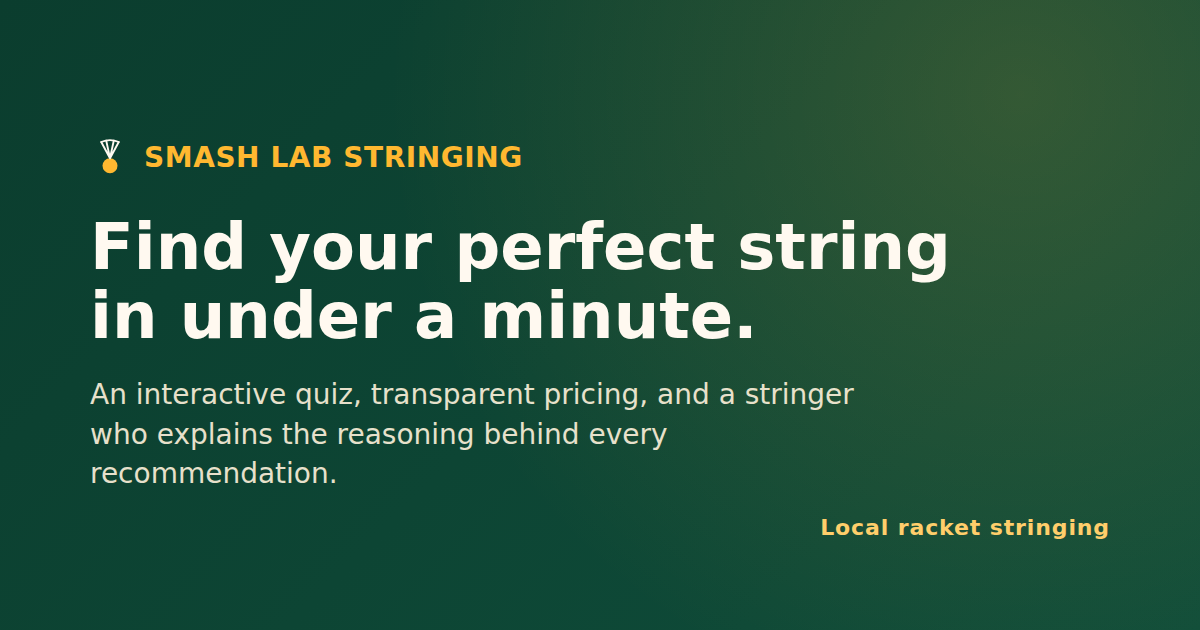
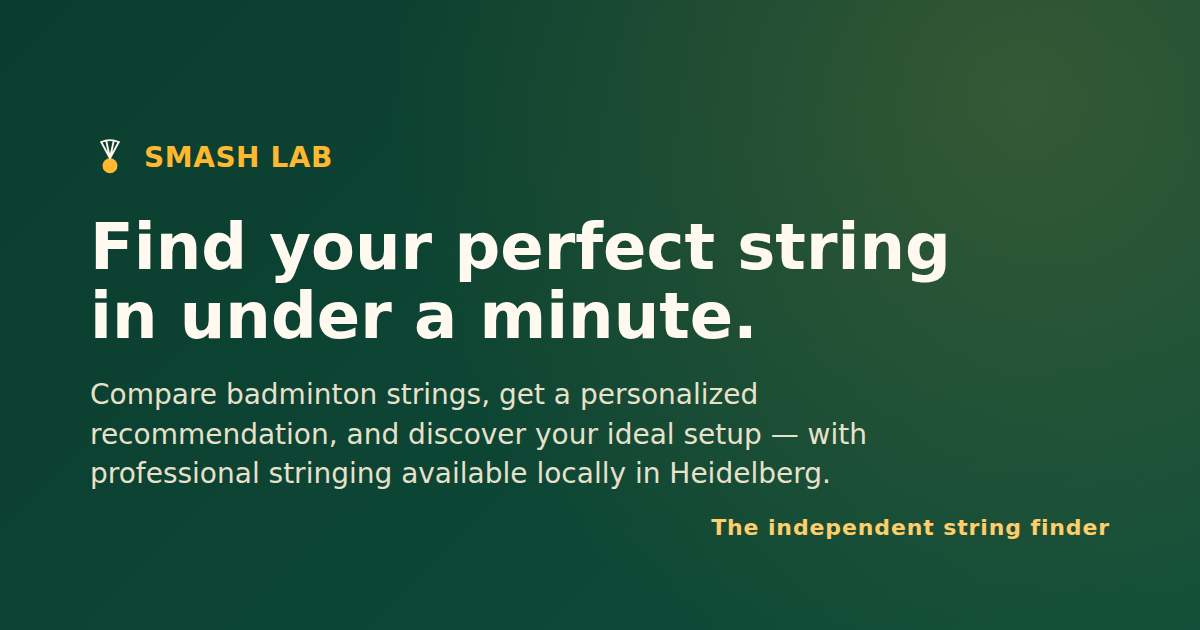
feat: reposition Smash Lab as an independent string finder
Shift homepage/SEO messaging from "local stringing service" to
"independent badminton string finder" per the platform's new direction —
stringing is now a secondary local service offered after a
recommendation, not the primary pitch. Updates Hero, HowItWorks, WhyUs,
site metadata/OG image, and per-page document titles (including the
plain #faq/#contact anchors, keyed off the raw hash). The recommendation
result's closing conversion section is reframed as "Ready to try this
setup?", and RestringAndCraft drops its "coming soon" photo placeholder
for a short, self-contained restring-frequency tip. Turnaround copy
updated to "24-48 hours".

Changed region(s): [[0.0617, 0.6032, 0.74, 0.7841], [0.5858, 0.8143, 0.925, 0.8746], [0.2775, 0.2111, 0.4317, 0.2714]]

diff --git a/index.html b/index.html
@@ -4,9 +4,10 @@
     <meta charset="UTF-8" />
     <link rel="icon" type="image/svg+xml" href="/favicon.svg" />
     <meta name="viewport" content="width=device-width, initial-scale=1.0" />
-    <meta name="description" content="Local badminton racket stringing service. Find your perfect string in under a minute with an interactive quiz, then browse the full string lineup with transparent pricing." />
+    <meta name="description" content="The independent badminton string finder. Compare strings, get a personalized recommendation, and find your ideal setup — with professional stringing available locally in Heidelberg." />
     <meta name="theme-color" content="#0b3d2e" />
-    <title>Smash Lab Stringing — Find Your Perfect String</title>
+    <link rel="apple-touch-icon" href="/favicon.svg" />
+    <title>Smash Lab — The Independent Badminton String Finder</title>
 
     <!--
       Content-Security-Policy — delivered via <meta> because GitHub Pages
@@ -61,7 +62,7 @@
     -->
     <meta
       http-equiv="Content-Security-Policy"
-      content="default-src 'self'; script-src 'self' 'sha256-4AVKGgu64xs9R5ibENixDABB7PLtxijHwG+/FQqmoDk='; style-src 'self' 'unsafe-inline'; img-src 'self' https:; font-src 'self'; connect-src 'self' https://*.supabase.co; object-src 'none'; base-uri 'self'; form-action 'self'; frame-src 'none'"
+      content="default-src 'self'; script-src 'self' 'sha256-PaeXnk29MDYLlPkDwOLXbMpM85TkaCvLqwVHqjuJPIY='; style-src 'self' 'unsafe-inline'; img-src 'self' https:; font-src 'self'; connect-src 'self' https://*.supabase.co; object-src 'none'; base-uri 'self'; form-action 'self'; frame-src 'none'"
     />
 
     <!--
@@ -78,27 +79,27 @@
     <link rel="canonical" href="https://thegrandnick.github.io/smash_lab/" />
 
     <meta property="og:type" content="website" />
-    <meta property="og:site_name" content="Smash Lab Stringing" />
-    <meta property="og:title" content="Smash Lab Stringing — Find Your Perfect String" />
-    <meta property="og:description" content="Local badminton racket stringing service. Find your perfect string in under a minute with an interactive quiz, then browse the full string lineup with transparent pricing." />
+    <meta property="og:site_name" content="Smash Lab" />
+    <meta property="og:title" content="Smash Lab — The Independent Badminton String Finder" />
+    <meta property="og:description" content="The independent badminton string finder. Compare strings, get a personalized recommendation, and find your ideal setup — with professional stringing available locally in Heidelberg." />
     <meta property="og:url" content="https://thegrandnick.github.io/smash_lab/" />
     <meta property="og:image" content="https://thegrandnick.github.io/smash_lab/og-image.png" />
     <meta property="og:image:width" content="1200" />
     <meta property="og:image:height" content="630" />
-    <meta property="og:image:alt" content="Smash Lab Stringing — find your perfect string in under a minute." />
+    <meta property="og:image:alt" content="Smash Lab — the independent badminton string finder." />
 
     <meta name="twitter:card" content="summary_large_image" />
-    <meta name="twitter:title" content="Smash Lab Stringing — Find Your Perfect String" />
-    <meta name="twitter:description" content="Local badminton racket stringing service. Find your perfect string in under a minute with an interactive quiz, then browse the full string lineup with transparent pricing." />
+    <meta name="twitter:title" content="Smash Lab — The Independent Badminton String Finder" />
+    <meta name="twitter:description" content="The independent badminton string finder. Compare strings, get a personalized recommendation, and find your ideal setup — with professional stringing available locally in Heidelberg." />
     <meta name="twitter:image" content="https://thegrandnick.github.io/smash_lab/og-image.png" />
 
     <script type="application/ld+json">
       {
         "@context": "https://schema.org",
         "@type": "WebSite",
-        "name": "Smash Lab Stringing",
+        "name": "Smash Lab",
         "url": "https://thegrandnick.github.io/smash_lab/",
-        "description": "Local badminton racket stringing service. Find your perfect string in under a minute with an interactive quiz, then browse the full string lineup with transparent pricing."
+        "description": "The independent badminton string finder. Compare strings, get a personalized recommendation, and find your ideal setup — with professional stringing available locally in Heidelberg."
       }
     </script>
     <!--

diff --git a/src/components/WhyUs.tsx b/src/components/WhyUs.tsx
@@ -1,12 +1,10 @@
 const POINTS = [
-  { emoji: '🏸', title: 'Badminton-focused', text: 'Restringing badminton rackets is my main focus, not a side category among many other sports.' },
-  { emoji: '⏳', title: '~2.5 years of experience', text: 'Hands-on stringing experience across a wide range of racket brands and models.' },
-  { emoji: '🧠', title: 'Personalized recommendations', text: 'String and tension suggestions come from a real scoring model based on how you actually play.' },
-  { emoji: '🔩', title: 'Grommet care included', text: 'I check grommets while restringing, and rotate or replace them where it helps protect your racket.' },
-  { emoji: '🎯', title: 'Careful, consistent process', text: 'Careful mounting and a consistent stringing pattern, restring after restring.' },
-  { emoji: '🧵', title: 'Wide string selection', text: 'A solid lineup of performance strings covering repulsion, control and durability.' },
-  { emoji: '📦', title: 'Can order other strings', text: "Don't see what you want in the lineup? I can usually order it in for you." },
-  { emoji: '🎒', title: 'Bring your own string', text: 'Prefer to supply your own string? Then you only pay the stringing fee.' },
+  { emoji: '🧠', title: 'Personalized, not generic', text: 'Recommendations come from a real scoring model based on how you actually play — not a one-size-fits-all bestseller list.' },
+  { emoji: '🏸', title: 'Independent & unbiased', text: 'No sponsorships or paid placements. Every match is based on fit, not on what pays best.' },
+  { emoji: '🧵', title: 'Full current lineup', text: 'Compare the whole lineup — repulsion, control, durability, feel — side by side, always up to date.' },
+  { emoji: '📦', title: "Can't find it?", text: "Don't see the string you want in the lineup? I can usually order it in for you." },
+  { emoji: '🎒', title: 'Bring your own string', text: 'Already have a string in mind? Bring it in and only pay the stringing fee.' },
+  { emoji: '🔧', title: 'Careful stringing, when you want it', text: 'Consistent mounting and pattern, with grommets checked along the way — built on ~2.5 years of hands-on experience.' },
 ]
 
 export default function WhyUs() {
@@ -14,10 +12,10 @@ export default function WhyUs() {
     <section id="why-us" className="py-20 px-4 sm:px-6 bg-court-900/5 dark:bg-white/5 scroll-mt-20">
       <div className="max-w-6xl mx-auto">
         <div className="text-center max-w-2xl mx-auto mb-12">
-          <p className="text-shuttle-600 font-semibold text-sm tracking-wide uppercase">Why choose this service</p>
-          <h2 className="font-display text-3xl sm:text-4xl font-bold mt-2 text-ink-900 dark:text-shuttle-50">Strung with care, matched with data</h2>
+          <p className="text-shuttle-600 font-semibold text-sm tracking-wide uppercase">Why Smash Lab</p>
+          <h2 className="font-display text-3xl sm:text-4xl font-bold mt-2 text-ink-900 dark:text-shuttle-50">Independent, and built on your answers</h2>
         </div>
-        <div className="grid sm:grid-cols-2 lg:grid-cols-4 gap-5">
+        <div className="grid grid-cols-1 sm:grid-cols-2 lg:grid-cols-3 gap-5">
           {POINTS.map((p) => (
             <div key={p.title} className="flex flex-col gap-2 rounded-2xl bg-white/80 dark:bg-white/5 p-5 border-2 border-court-900/10 dark:border-white/10">
               <div className="text-2xl" aria-hidden="true">

diff --git a/src/components/RestringAndCraft.tsx b/src/components/RestringAndCraft.tsx
@@ -1,33 +1,13 @@
-import Shuttlecock from './Shuttlecock'
-
-/**
- * Product feedback: (1) a short "when should I restring?" education
- * blurb (1-2 sentences, not a full article), and (2) a trust/
- * craftsmanship section that demonstrates care, not just the
- * engineering behind the recommendations. Per that same feedback, this
- * intentionally does NOT use a stock photo — the image slot is a real
- * placeholder for future workshop/stringing photography, clearly
- * labelled as such rather than faked.
- */
+/** Short "when should I restring?" education blurb — 1-2 sentences, not a full article. */
 export default function RestringAndCraft() {
   return (
-    <section className="py-20 px-4 sm:px-6 max-w-6xl mx-auto scroll-mt-20">
-      <div className="grid grid-cols-1 gap-10 lg:grid-cols-2 lg:items-center">
-        <div>
-          <p className="text-shuttle-600 font-semibold text-sm tracking-wide uppercase">Good to know</p>
-          <h2 className="font-display text-2xl sm:text-3xl font-bold mt-2 text-ink-900 dark:text-shuttle-50">When should I restring?</h2>
-          <p className="mt-3 text-ink-700/70 dark:text-shuttle-100/70 max-w-md">
-            A common rule of thumb: restring about as many times a year as you play per week. Tension drops naturally over time — even before a string breaks, a stringbed that's gone dead loses
-            power and feel, so restringing on a schedule keeps your racket playing the way it should.
-          </p>
-        </div>
-
-        <div className="rounded-2xl border-2 border-dashed border-court-900/15 dark:border-white/20 bg-white/50 dark:bg-white/5 aspect-video flex flex-col items-center justify-center gap-2 text-center p-6">
-          <Shuttlecock className="w-10 h-10 text-shuttle-500/70" aria-hidden="true" />
-          <p className="text-sm font-semibold text-ink-900 dark:text-shuttle-50">Real photos of the stringing process</p>
-          <p className="text-xs text-ink-700/50 dark:text-shuttle-100/50">Coming soon — the machine, finished rackets, and clean knots, not stock photography.</p>
-        </div>
-      </div>
+    <section className="py-16 px-4 sm:px-6 max-w-3xl mx-auto text-center scroll-mt-20">
+      <p className="text-shuttle-600 font-semibold text-sm tracking-wide uppercase">Good to know</p>
+      <h2 className="font-display text-2xl sm:text-3xl font-bold mt-2 text-ink-900 dark:text-shuttle-50">When should I restring?</h2>
+      <p className="mt-3 text-ink-700/70 dark:text-shuttle-100/70 max-w-xl mx-auto">
+        A common rule of thumb: restring about as many times a year as you play per week. Tension drops naturally over time, so restringing on a
+        schedule — not just after a snap — keeps your racket playing the way it should.
+      </p>
     </section>
   )
 }

diff --git a/src/components/HowItWorks.tsx b/src/components/HowItWorks.tsx
@@ -1,8 +1,8 @@
 const STEPS = [
   { emoji: '🏸', title: 'Take the quiz', text: 'Answer a handful of quick questions about how and how often you play — about 30–60 seconds.' },
-  { emoji: '🧮', title: 'Get matched', text: 'A weighted scoring engine compares your answers against the whole string lineup and current tension.' },
-  { emoji: '🧵', title: 'Bring your racket', text: "Drop off your racket (or arrange pickup) and I'll string it to your matched setup." },
-  { emoji: '🎯', title: 'Play better', text: 'Pick it up ready to go — with notes on why this string and tension fit your game.' },
+  { emoji: '🧮', title: 'Get matched', text: 'A weighted scoring engine compares your answers against the whole string lineup, with the reasoning shown.' },
+  { emoji: '⚖', title: 'Compare & decide', text: 'See your top matches side by side, or browse the full lineup, before settling on a setup.' },
+  { emoji: '🧵', title: 'String it (optional)', text: 'Want it professionally strung? Drop off locally in Heidelberg — or take your recommendation anywhere.' },
 ]
 
 export default function HowItWorks() {
@@ -10,7 +10,7 @@ export default function HowItWorks() {
     <section id="how-it-works" className="py-20 px-4 sm:px-6 max-w-6xl mx-auto scroll-mt-20">
       <div className="text-center max-w-2xl mx-auto mb-12">
         <p className="text-shuttle-600 font-semibold text-sm tracking-wide uppercase">How it works</p>
-        <h2 className="font-display text-3xl sm:text-4xl font-bold mt-2 text-ink-900 dark:text-shuttle-50">From quiz to strung racket</h2>
+        <h2 className="font-display text-3xl sm:text-4xl font-bold mt-2 text-ink-900 dark:text-shuttle-50">From quiz to your ideal setup</h2>
       </div>
       <div className="grid sm:grid-cols-2 lg:grid-cols-4 gap-6">
         {STEPS.map((step, i) => (

diff --git a/src/App.tsx b/src/App.tsx
@@ -29,6 +29,27 @@ function getSharedResultEncoded(): string {
   return hash.startsWith('result/') ? hash.slice('result/'.length) : ''
 }
 
+const BASE_TITLE = 'Smash Lab — The Independent Badminton String Finder'
+
+/**
+ * Per-view <title>. Keyed off the raw hash rather than the `View` union,
+ * since #faq/#contact are plain in-page anchors (Nav.tsx) that never
+ * change `view` itself — they still deserve their own title, so this is
+ * checked independently of the view-routing logic above.
+ */
+function getPageTitle(hash: string): string {
+  const clean = hash.replace('#', '')
+  if (clean === 'finder') return 'Find Your String — Smash Lab'
+  if (clean === 'compare') return 'Compare Strings — Smash Lab'
+  if (clean === 'faq') return 'FAQ — Smash Lab'
+  if (clean === 'contact') return 'Contact — Smash Lab'
+  if (clean === 'impressum') return 'Impressum — Smash Lab'
+  if (clean === 'datenschutz') return 'Datenschutzerklärung — Smash Lab'
+  if (clean.startsWith('admin')) return 'Admin — Smash Lab'
+  if (clean.startsWith('result/')) return 'Your Recommendation — Smash Lab'
+  return BASE_TITLE
+}
+
 function viewFromHash(): View {
   const hash = window.location.hash.replace('#', '')
   if (hash === 'finder' || hash === 'compare' || hash === 'impressum' || hash === 'datenschutz') return hash
@@ -70,7 +91,9 @@ function App() {
     const onHashChange = () => {
       setView(viewFromHash())
       setSharedResultEncoded(getSharedResultEncoded())
+      document.title = getPageTitle(window.location.hash)
     }
+    document.title = getPageTitle(window.location.hash)
     window.addEventListener('hashchange', onHashChange)
     return () => window.removeEventListener('hashchange', onHashChange)
   }, [])

diff --git a/src/components/Hero.tsx b/src/components/Hero.tsx
@@ -31,7 +31,7 @@ export default function Hero({ onOpenFinder, onOpenCompare }: HeroProps) {
           transition={{ duration: 0.5 }}
           className="text-shuttle-400 font-semibold tracking-widest uppercase text-sm"
         >
-          Local badminton stringing
+          The independent badminton string finder
         </motion.p>
         <motion.h1
           initial={{ opacity: 0, y: 16 }}
@@ -49,7 +49,7 @@ export default function Hero({ onOpenFinder, onOpenCompare }: HeroProps) {
           transition={{ duration: 0.5, delay: 0.2 }}
           className="mt-6 text-lg text-white/70 max-w-xl mx-auto"
         >
-          Take a 60-second quiz and get a matched string + tension setup, strung by hand — built around how you actually play.
+          Take a 60-second quiz to get a personalized string + tension recommendation, built around how you actually play — with professional stringing available locally in Heidelberg.
         </motion.p>
 
         <motion.div

diff --git a/src/components/StringingEnquiry.tsx b/src/components/StringingEnquiry.tsx
@@ -81,10 +81,11 @@ export default function StringingEnquiry({ stringBrand, stringName, tensionKg, m
   return (
     <section className="mt-8 rounded-2xl border-2 border-shuttle-500/40 bg-shuttle-100/50 dark:bg-shuttle-500/10 p-6 sm:p-7" aria-labelledby="enquiry-heading">
       <h2 id="enquiry-heading" className="font-display text-xl sm:text-2xl font-bold text-ink-900 dark:text-shuttle-50">
-        Want this setup in your racket?
+        Ready to try this setup?
       </h2>
       <p className="mt-1 text-sm text-ink-700/70 dark:text-shuttle-100/70">
-        Send {fullName} at {formatKg(tensionKg)} as a stringing enquiry — no account needed, nothing is sent until you tap Send.
+        Need {fullName} at {formatKg(tensionKg)} professionally strung? Contact Nick in Heidelberg via WhatsApp or email — no account needed, nothing
+        is sent until you tap Send.
       </p>
 
       <div className="mt-5 grid grid-cols-1 gap-4 sm:grid-cols-2">

diff --git a/src/data/siteConfig.ts b/src/data/siteConfig.ts
@@ -5,7 +5,7 @@
 // GitHub Pages serves project sites at the lowercased owner login.
 export const SITE_URL = 'https://thegrandnick.github.io/smash_lab/'
 
-export const SITE_NAME = 'Smash Lab Stringing'
+export const SITE_NAME = 'Smash Lab'
 
 export const SITE_DESCRIPTION =
-  'Local badminton racket stringing service. Find your perfect string in under a minute with an interactive quiz, then browse the full string lineup with transparent pricing.'
+  'The independent badminton string finder. Compare strings, get a personalized recommendation, and find your ideal setup — with professional stringing available locally in Heidelberg.'

diff --git a/src/data/serviceConfig.ts b/src/data/serviceConfig.ts
@@ -6,5 +6,5 @@
 // surfaced somewhere more visible. Edit this one string (and the FAQ
 // answer, to keep them consistent) if the real turnaround changes.
 export const SERVICE_CONFIG = {
-  turnaroundNote: 'Usually ready within 1–2 days.',
+  turnaroundNote: 'Usually ready within 24–48 hours.',
 }
